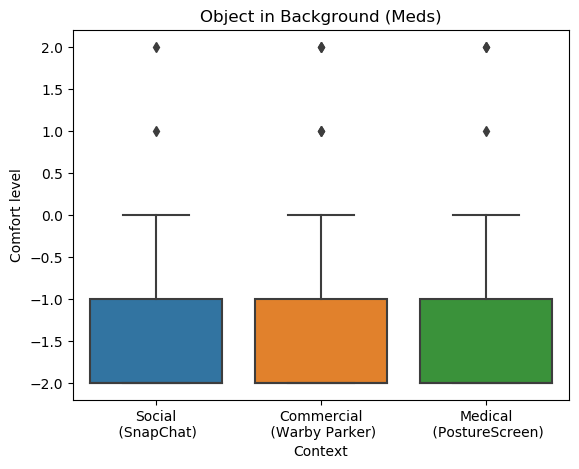
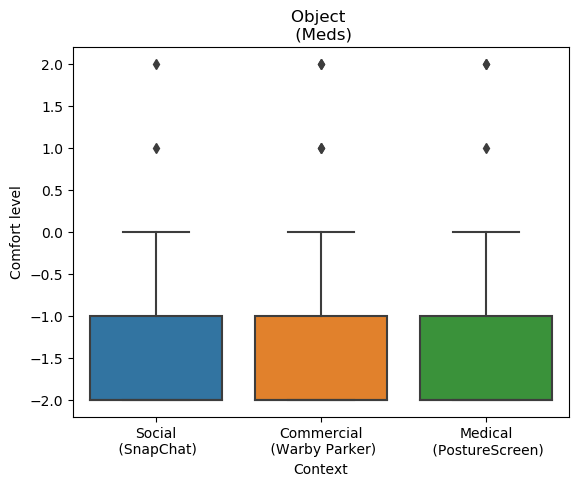
Improved presentation for better text legibility

diff --git a/data_analysis_ar_attitudes.py b/data_analysis_ar_attitudes.py
@@ -94,17 +94,17 @@ COL_DEMO_TECHIE     = 'Q5'
 
 LABEL_AUD_INTENTIONAL = 'Intentional Audio'
 LABEL_AUD_BACKGROUND  = 'Background Audio'
-LABEL_VIS_FACE_CORE   = 'Face (for core functionality)'
-LABEL_VIS_PUPIL       = 'Pupil Dialation (to assess excitement)'
-LABEL_VIS_BKGD_OTHERS = 'Other Faces in the Background'
-LABEL_VIS_BKGD_ME     = 'My Face in the Background of Someone Else'
-LABEL_VIS_FACE_ALG    = 'Face (for Improving the App)'
-LABEL_VIS_NN_INTENT   = 'Near-Nudity (Intentional)'
-LABEL_VIS_NN_ACCIDENT = 'Near-Nudity (Accidental)'
-LABEL_VIS_OBJ_MEDS    = 'Object in Background (Meds)'
-LABEL_VIS_OBJ_SEX     = 'Object in Background (Sexual)'
-LABEL_VIS_OBJ_MESSY   = 'Object in Background (Mess)'
-LABEL_VIS_OBJ_LICENSE = 'Object in Background (ID)'
+LABEL_VIS_FACE_CORE   = 'My Face\n (for core functionality)'
+LABEL_VIS_PUPIL       = 'Pupil Dialation\n (to assess excitement)'
+LABEL_VIS_BKGD_OTHERS = 'Other Faces\n in the Background'
+LABEL_VIS_BKGD_ME     = 'My Face\n in the Background of Someone Else'
+LABEL_VIS_FACE_ALG    = 'My Face\n (for Improving the App)'
+LABEL_VIS_NN_INTENT   = 'Near-Nudity\n (Intentional)'
+LABEL_VIS_NN_ACCIDENT = 'Near-Nudity\n (Accidental)'
+LABEL_VIS_OBJ_MEDS    = 'Object \n (Meds)'
+LABEL_VIS_OBJ_SEX     = 'Object \n (Sexual)'
+LABEL_VIS_OBJ_MESSY   = 'Object \n (Mess)'
+LABEL_VIS_OBJ_LICENSE = 'Object \n (License)'
 LABEL_LOCATION        = 'Location'
 LABEL_PAYMENT         = 'Payment Information'
 
@@ -328,33 +328,41 @@ def make_cross_df(df, fn):
 
 def make_boxplot_2way(df, title):
     graph_type = "boxplot"
-    plt.figure()
     print("\tMAKING BOXPLOT - 2WAY")
+
+    fig_dims = (8, 5)
+    fig, ax = plt.subplots(figsize=fig_dims)
+
     # print(df.values)
     # bx = sns.boxplot(x="variable", y="value", data=df)
     # sorted_index = df.median().sort_values().index
     # print(sorted_index)
-    bx = sns.boxplot(data=df, x='question', y='value', hue='context') #, order=cat_order)
+    bx = sns.boxplot(data=df, x='value', y='question', hue='context') #, order=cat_order)
 
-    n = len(pd.unique(df['question']))
-
-    if n > 3:
-        bx.set_xticklabels(bx.get_xticklabels(), rotation=90)
-        
-
-
-    plt.tight_layout()
+    n = len(pd.unique(df['question']))   
+    # bx.tick_params('both', labelsize='15')
+    # plt.legend(legend)
     # title = al_title[analysis] + "\n" + al_y_range
     # bx = sns.boxplot(data=df, x=COL_PATHING, y=analysis, hue=COL_CHAIR, order=cat_order)
     # print("San check on data")
     # print(df[analysis])
     # print(df[analysis].columns)
 
-    bx.set(xlabel='Data Type')
-    bx.set(title=title, ylabel="Comfort level")
+    handles, _ = bx.get_legend_handles_labels()          # Get the artists.
+    bx.legend(handles, context_map) #, loc="top") # Associate manually the artists to a label.
+
+    bx.set(xlabel='Comfort Level')
+    bx.set(title=title, ylabel="Data Type")
+    plt.legend(bbox_to_anchor=(1.01, 1), borderaxespad=0)
+    # plt.legend(bbox_to_anchor=(1.05, 1), loc=2, borderaxespad=0.)
     # bx.set(xticks=['Social\n (SnapChat)', "Commercial\n (Warby Parker)", "Medical\n (PostureScreen)"])
     figure = bx.get_figure()    
-    figure.savefig(FILENAME_PLOTS + title + '-cross.png')#, bbox_inches='tight')
+    if n > 4:
+        bx.set_xticklabels(bx.get_xticklabels(), rotation=90)
+
+    # figure.autofmt_xdate() 
+    plt.tight_layout()
+    figure.savefig(FILENAME_PLOTS + "cross-" + title + '.png')#, bbox_inches='tight')
     plt.close()
 
 def make_anova_2way(df, title):
